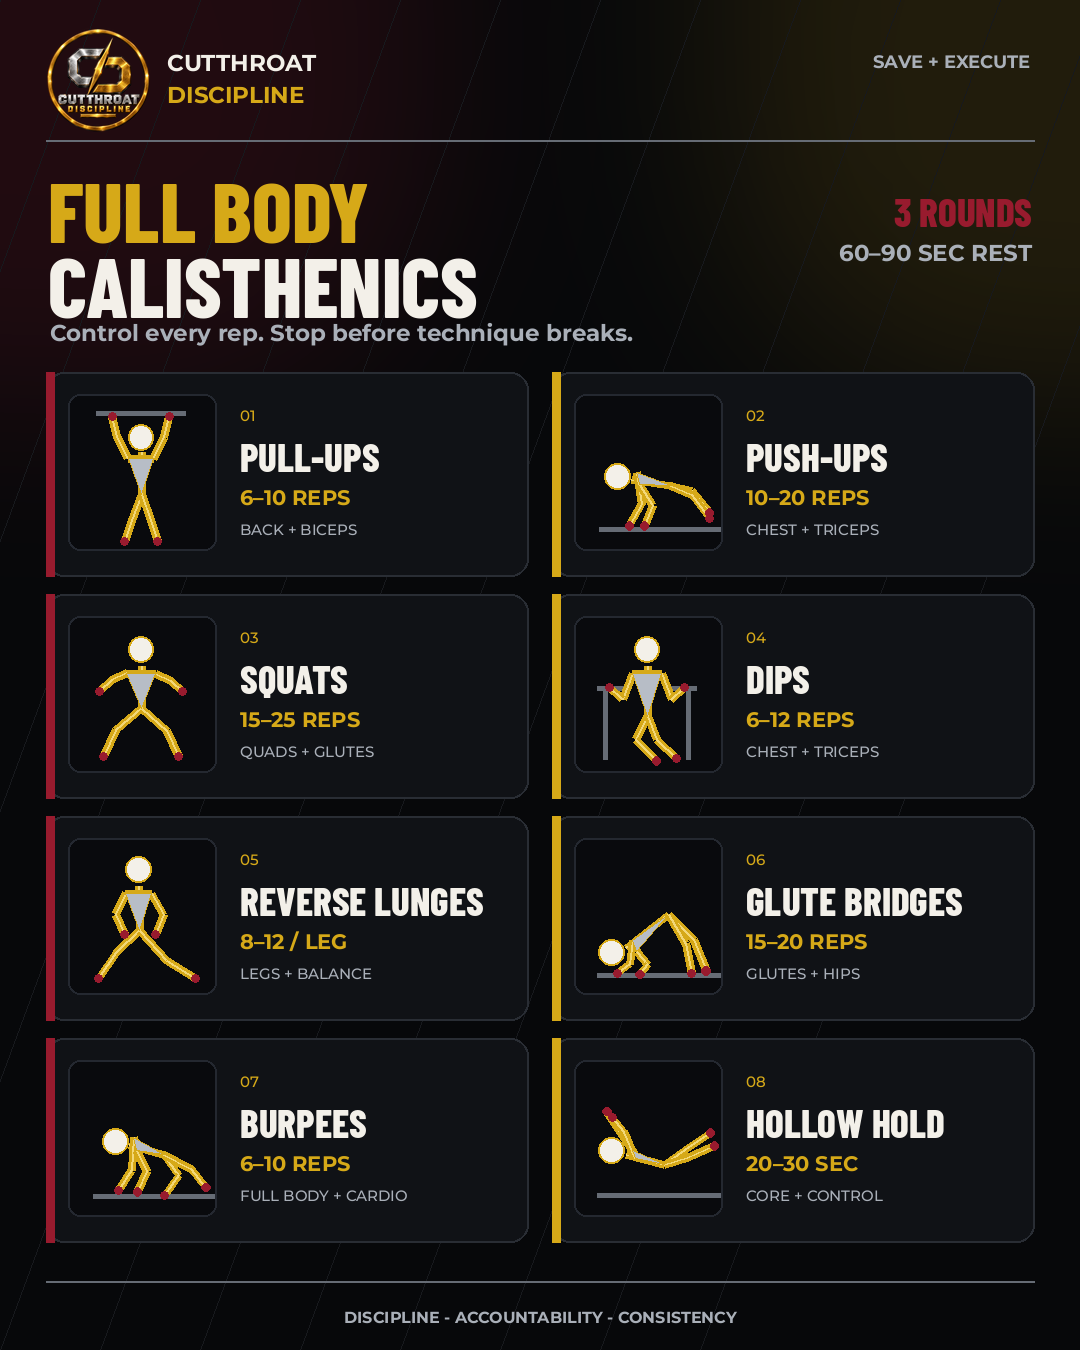
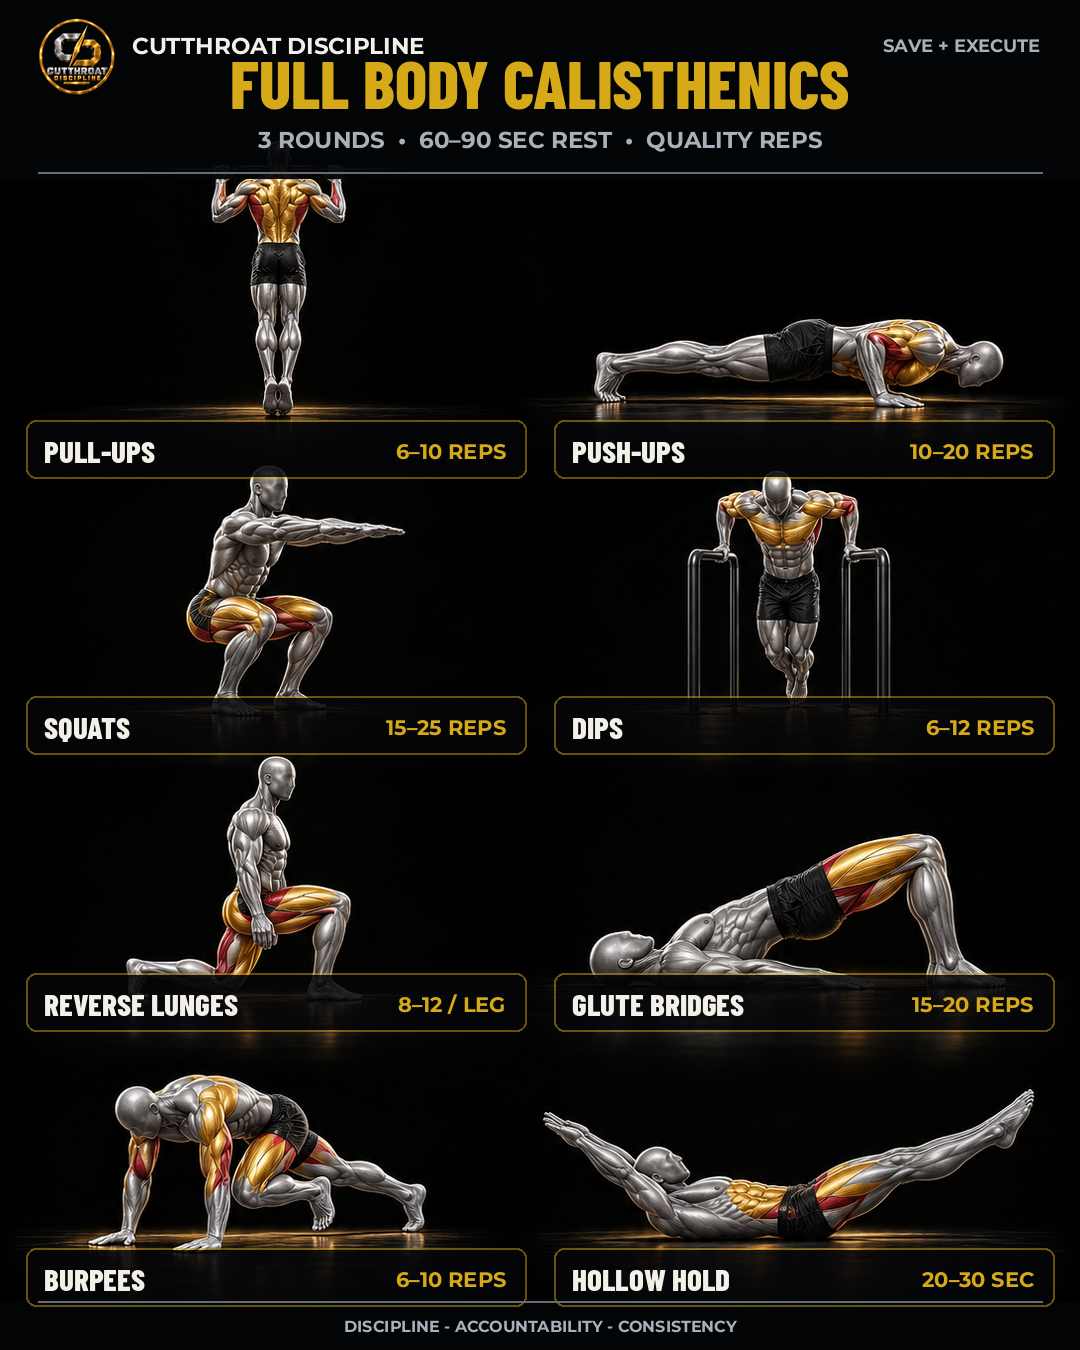
Upgrade calisthenics post with anatomical figures

diff --git a/tools/build_ctd_full_body_calisthenics.py b/tools/build_ctd_full_body_calisthenics.py
@@ -23,6 +23,7 @@ HEAD = ROOT / "brand/fonts/BarlowCondensed-ExtraBold.ttf"
 BODY = ROOT / "brand/fonts/Montserrat-Bold.ttf"
 MEDIUM = ROOT / "brand/fonts/Montserrat-Medium.ttf"
 LOGO = ROOT / "outputs/ctd-why-routine-matters/ctd-cinematic-logo.png"
+ANATOMY = OUT / "anatomical-exercises-source.png"
 
 
 def font(path, size):
@@ -137,49 +138,44 @@ WORKOUT = [
 
 def build():
     OUT.mkdir(parents=True, exist_ok=True)
-    im = Image.new("RGBA", (W, H), BLACK)
+    source = Image.open(ANATOMY).convert("RGBA")
+    ratio = max(W / source.width, H / source.height)
+    source = source.resize((round(source.width * ratio), round(source.height * ratio)), Image.Resampling.LANCZOS)
+    left = (source.width - W) // 2
+    top_crop = (source.height - H) // 2
+    im = source.crop((left, top_crop, left + W, top_crop + H))
+    # Protect the typography zones while preserving the rendered anatomy.
+    shade = Image.new("RGBA", (W, H), (0, 0, 0, 0))
+    sd = ImageDraw.Draw(shade)
+    sd.rectangle((0, 0, W, 178), fill=(3, 4, 6, 238))
+    sd.rectangle((0, 1302, W, H), fill=(3, 4, 6, 235))
+    im.alpha_composite(shade)
     d = ImageDraw.Draw(im)
-    # premium understated background
-    glow(im, (-220, -240, 500, 480), CRIMSON, 110, 45)
-    glow(im, (650, -250, 1320, 470), GOLD, 115, 32)
-    d = ImageDraw.Draw(im)
-    for x in range(-200, 1300, 100):
-        d.line((x, 0, x-500, H), fill="#17191D", width=1)
-
     logo = Image.open(LOGO).convert("RGBA")
-    logo.thumbnail((105, 105), Image.Resampling.LANCZOS)
-    im.alpha_composite(logo, (46, 28))
-    d.text((167, 48), "CUTTHROAT", font=F["sub"], fill=WHITE)
-    d.text((167, 80), "DISCIPLINE", font=F["sub"], fill=GOLD)
-    d.text((1030, 50), "SAVE + EXECUTE", font=F["kicker"], fill=SILVER, anchor="ra")
-    d.line((46, 140, 1034, 140), fill=MUTED, width=2)
+    logo.thumbnail((78, 78), Image.Resampling.LANCZOS)
+    im.alpha_composite(logo, (38, 18))
+    d.text((132, 31), "CUTTHROAT DISCIPLINE", font=F["sub"], fill=WHITE)
+    d.text((1040, 34), "SAVE + EXECUTE", font=F["kicker"], fill=SILVER, anchor="ra")
+    d.text((W//2, 82), "FULL BODY CALISTHENICS", font=font(HEAD, 67), fill=GOLD, anchor="mm")
+    d.text((W//2, 139), "3 ROUNDS  •  60–90 SEC REST  •  QUALITY REPS", font=F["sub"], fill=SILVER, anchor="mm")
+    d.line((38, 172, 1042, 172), fill=MUTED, width=2)
 
-    d.text((48, 160), "FULL BODY", font=F["headline"], fill=GOLD)
-    d.text((48, 235), "CALISTHENICS", font=F["headline"], fill=WHITE)
-    d.text((1032, 188), "3 ROUNDS", font=F["name"], fill=CRIMSON, anchor="ra")
-    d.text((1032, 238), "60–90 SEC REST", font=F["sub"], fill=SILVER, anchor="ra")
-    d.text((50, 318), "Control every rep. Stop before technique breaks.", font=F["sub"], fill=SILVER)
-
-    top = 372
-    card_w, card_h = 482, 204
-    gap_x, gap_y = 24, 18
+    # Compact labels preserve the reference's photo-first hierarchy.
+    label_rows = [420, 696, 973, 1248]
     for i, (name, reps, target) in enumerate(WORKOUT):
         col, row = i % 2, i // 2
-        x = 46 + col * (card_w + gap_x)
-        y = top + row * (card_h + gap_y)
-        d.rounded_rectangle((x, y, x+card_w, y+card_h), radius=18, fill=CARD, outline="#292D34", width=2)
-        d.rectangle((x, y, x+8, y+card_h), fill=GOLD if col else CRIMSON)
-        # pictogram stage
-        d.rounded_rectangle((x+22, y+22, x+170, y+178), radius=12, fill="#090A0D", outline="#242830", width=2)
-        pts, equipment = POSES[name]
-        skeleton(d, x+36, y+30, 1.18, pts, equipment)
-        d.text((x+194, y+34), f"{i+1:02d}", font=F["target"], fill=GOLD)
-        d.text((x+194, y+61), name, font=F["name"], fill=WHITE)
-        d.text((x+194, y+112), reps, font=F["reps"], fill=GOLD)
-        d.text((x+194, y+148), target, font=F["target"], fill=SILVER)
+        x = 26 if col == 0 else 554
+        y = label_rows[row]
+        layer = Image.new("RGBA", (W, H), (0, 0, 0, 0))
+        ld = ImageDraw.Draw(layer)
+        ld.rounded_rectangle((x, y, x+500, y+58), radius=10, fill=(4, 5, 7, 220), outline=(214,169,24,120), width=2)
+        im.alpha_composite(layer)
+        d = ImageDraw.Draw(im)
+        d.text((x+18, y+12), name, font=font(HEAD, 31), fill=WHITE)
+        d.text((x+480, y+18), reps, font=F["reps"], fill=GOLD, anchor="ra")
 
-    d.line((46, 1281, 1034, 1281), fill=MUTED, width=2)
-    d.text((W//2, 1317), "DISCIPLINE - ACCOUNTABILITY - CONSISTENCY", font=F["footer"], fill=SILVER, anchor="mm")
+    d.line((38, 1301, 1042, 1301), fill=MUTED, width=2)
+    d.text((W//2, 1326), "DISCIPLINE - ACCOUNTABILITY - CONSISTENCY", font=F["footer"], fill=SILVER, anchor="mm")
 
     final = im.convert("RGB")
     final.save(OUT / "full-body-calisthenics.png", optimize=True)

diff --git a/outputs/ctd-full-body-calisthenics/README.md b/outputs/ctd-full-body-calisthenics/README.md
@@ -6,4 +6,4 @@ A single 1080 × 1350 Cut Throat Discipline workout infographic.
 - `preview.jpg` — review image
 - `caption.txt` — posting caption with beginner substitutions
 
-The graphic uses the established logo, black/gold/silver/crimson palette, Barlow Condensed headline treatment, Montserrat support text and standard footer.
+The graphic uses realistic silver-and-gold anatomical exercise illustrations, the established logo, black/gold/silver/crimson palette, Barlow Condensed headline treatment, Montserrat support text and standard footer.
